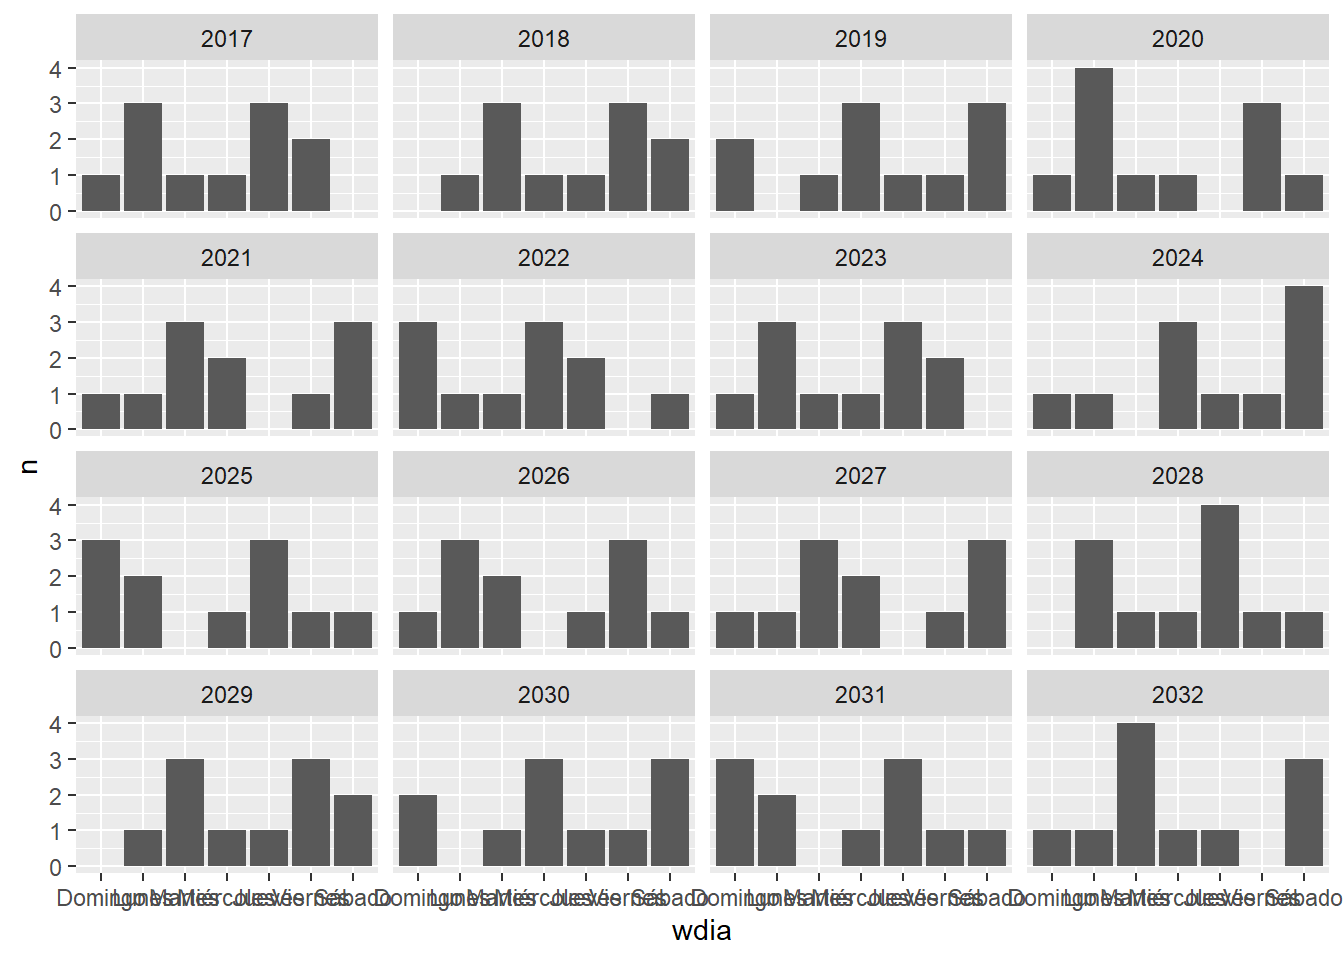
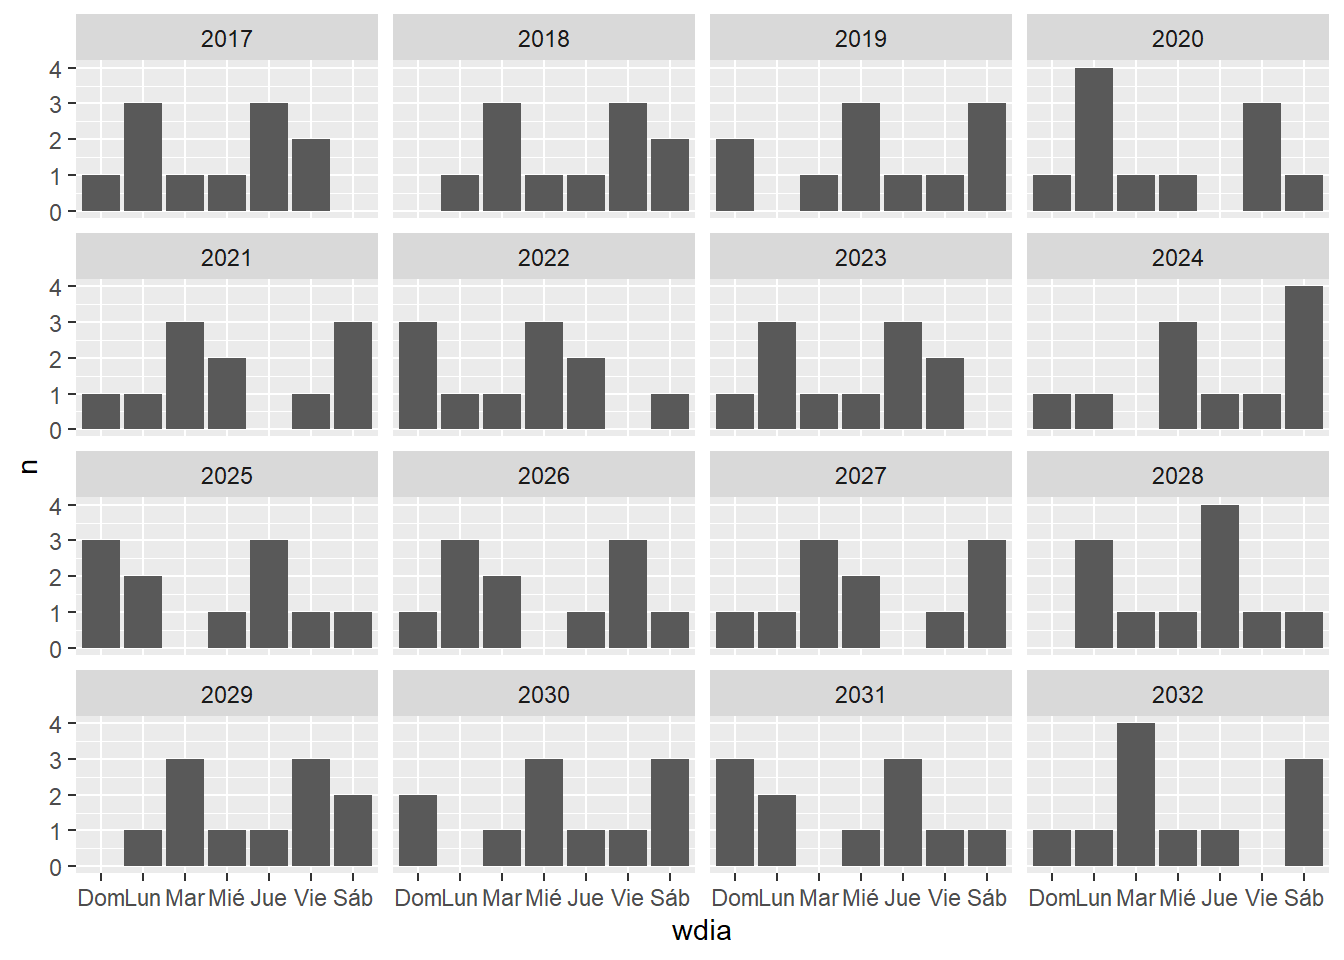
Fix feriados

Changed region(s): [[0.0312, 0.9062, 1.0, 0.9688]]

diff --git a/public/posts/vacunas/index.html b/public/posts/vacunas/index.html
@@ -181,3 +181,88 @@ diseases %&gt;%
 
 
 </html>
+ que aparecen en el data frame.</p>
+<p>En este caso, el orden del factor es alfabético (Canadá, Francia, etc.), y el data frame está ordenado por la tasa de homicidios (descendente): US, Italia, Canadá.</p>
+<p>Para controlar el orden en el que aparecen los países ordenar las etiquetas, usamos una función muy útil de <code>forcats</code>: <code>fct_inorder</code>. Esta función reordena los niveles del factor para que coincida con el orden en el que aparecen en el data-frame:</p>
+<pre class="r"><code>homicidios_2 &lt;- homicidios %&gt;% 
+  arrange(-count) %&gt;% 
+  mutate(country_ordenado = fct_inorder(country))
+
+levels(homicidios_2$country_ordenado)</code></pre>
+<pre><code>## [1] &quot;US&quot;      &quot;ITALY&quot;   &quot;CANADA&quot;  &quot;GERMANY&quot; &quot;UK&quot;      &quot;FRANCE&quot;  &quot;JAPAN&quot;  
+## [8] &quot;RUSSIA&quot;</code></pre>
+<p>Para la versión final, agrego las etiquetas del texto con <code>geom_text</code> (nudge_y me permite ajustar el texto un poco para que no toque las barras).</p>
+<p>También descubrí <code>ggflags</code>, que nos da una función <code>geom_flag</code> con el <code>aes</code> country para especificar el país. La coordenada y de todas las banderas la fijo en -.4.</p>
+<pre class="r"><code># install_github(&quot;rensa/ggflags&quot;)
+
+library(ggflags)
+library(ggthemes)
+# theme_economist
+# agrego texto sobre las columnas con geom_text y nudge_y
+
+plot &lt;- homicidios %&gt;% 
+  arrange(-count) %&gt;% 
+  mutate(country = fct_inorder(country)) %&gt;% # fct_inorder
+  ggplot(aes(country, count)) + 
+  geom_col(fill=&quot;darkred&quot;) + 
+  geom_flag(y = -.4, aes(country = code), size = 12) + # geom_flag
+  geom_text(aes(label = if_else(country == &quot;RUSSIA&quot;, &quot;S/D&quot;, as.character(count))), 
+                nudge_y = .15) + # nudge, label
+  scale_x_discrete(labels=NULL) + # remove labels from x-axis
+  labs(x=&quot;&quot;, y=&quot;# de homicidios con armas de fuego \n cada 100,000 habitantes&quot;, 
+       caption = &quot;Fuente: \nUNODC Homicide Statistics&quot;,
+       title = &quot;Tasa de Homicidios en países del G-8&quot;) + 
+  theme_economist() +
+  theme(
+    axis.line.x = element_blank(),
+    axis.ticks.x = element_blank(),
+    plot.caption = element_text(vjust = 170) # mover caption
+  )</code></pre>
+<pre class="r"><code>plot</code></pre>
+<p><img src="/posts/2019-12-28-homicidios_files/figure-html/unnamed-chunk-7-1.png" width="672" /></p>
+</div>
+
+
+</article>
+
+
+<section class="post-nav">
+    <ul>
+        
+        <li>
+            <a href="/posts/examenes-visualizaciones/"><i class="fa fa-chevron-circle-left"></i> Un gráfico de barras anotado</a>
+        </li>
+        
+        
+        <li>
+            <a href="/posts/2021-05-06-feriados-en-uruguay/">Feriados en Uruguay <i class="fa fa-chevron-circle-right"></i> </a>
+        </li>
+        
+    </ul>
+</section>
+    
+
+
+
+
+
+</main>
+    <footer>
+        <h6>Copyright © 2019 - Rafael La Buonora |
+            Rendered by <a href="https://gohugo.io" title="Hugo">Hugo</a> |
+            <a href="/index.xml">Subscribe</a></h6>
+    </footer>
+</div>
+<script src="/js/scripts.js"></script>
+
+  
+<script src="/js/math-code.js"></script>
+<script async src="//cdnjs.cloudflare.com/ajax/libs/mathjax/2.7.5/MathJax.js?config=TeX-MML-AM_CHTML"></script>
+
+
+
+</body>
+
+
+
+</html>

diff --git a/content/posts/2021-05-06-feriados-en-uruguay/index.html b/content/posts/2021-05-06-feriados-en-uruguay/index.html
@@ -104,11 +104,14 @@ Sys.setlocale(&quot;LC_TIME&quot;, &quot;Spanish_Spain.1252&quot;)</code></pre>
 ## 15  2031 2031-05-01 Día de los Trabajadores Jueves   
 ## 16  2032 2032-05-01 Día de los Trabajadores Sábado</code></pre>
 <p>Esto implica que los años bisiestos cambian la distribución de feriados por día, y esta queda estable y se mueve hacia la derecha cada año hasta el próximo año bisiesto:</p>
-<pre class="r"><code>feriados %&gt;% 
+<pre class="r"><code>dias &lt;- c(&quot;Domingo&quot;, &quot;Lunes&quot;, &quot;Martes&quot;,
+          &quot;Miércoles&quot;, &quot;Jueves&quot;, &quot;Viernes&quot;,
+          &quot;Sábado&quot;)
+
+feriados %&gt;% 
+  mutate(wdia=str_sub(wdia, 1, 3)) %&gt;% 
   count(t, wdia) %&gt;% 
-  mutate(wdia=factor(wdia, levels=c(&quot;Domingo&quot;, &quot;Lunes&quot;, &quot;Martes&quot;,
-                                    &quot;Miércoles&quot;, &quot;Jueves&quot;, &quot;Viernes&quot;,
-                                    &quot;Sábado&quot;))) %&gt;% 
+  mutate(wdia=factor(wdia, levels=str_sub(dias, 1, 3))) %&gt;% 
   ggplot(aes(wdia, n)) +
   geom_col() +
   facet_wrap(~t, ncol = 4) + 

diff --git a/public/posts/2021-05-06-feriados-en-uruguay/index.html b/public/posts/2021-05-06-feriados-en-uruguay/index.html
@@ -187,11 +187,14 @@ Sys.setlocale(&quot;LC_TIME&quot;, &quot;Spanish_Spain.1252&quot;)</code></pre>
 ## 15  2031 2031-05-01 Día de los Trabajadores Jueves   
 ## 16  2032 2032-05-01 Día de los Trabajadores Sábado</code></pre>
 <p>Esto implica que los años bisiestos cambian la distribución de feriados por día, y esta queda estable y se mueve hacia la derecha cada año hasta el próximo año bisiesto:</p>
-<pre class="r"><code>feriados %&gt;% 
+<pre class="r"><code>dias &lt;- c(&quot;Domingo&quot;, &quot;Lunes&quot;, &quot;Martes&quot;,
+          &quot;Miércoles&quot;, &quot;Jueves&quot;, &quot;Viernes&quot;,
+          &quot;Sábado&quot;)
+
+feriados %&gt;% 
+  mutate(wdia=str_sub(wdia, 1, 3)) %&gt;% 
   count(t, wdia) %&gt;% 
-  mutate(wdia=factor(wdia, levels=c(&quot;Domingo&quot;, &quot;Lunes&quot;, &quot;Martes&quot;,
-                                    &quot;Miércoles&quot;, &quot;Jueves&quot;, &quot;Viernes&quot;,
-                                    &quot;Sábado&quot;))) %&gt;% 
+  mutate(wdia=factor(wdia, levels=str_sub(dias, 1, 3))) %&gt;% 
   ggplot(aes(wdia, n)) +
   geom_col() +
   facet_wrap(~t, ncol = 4) + 
